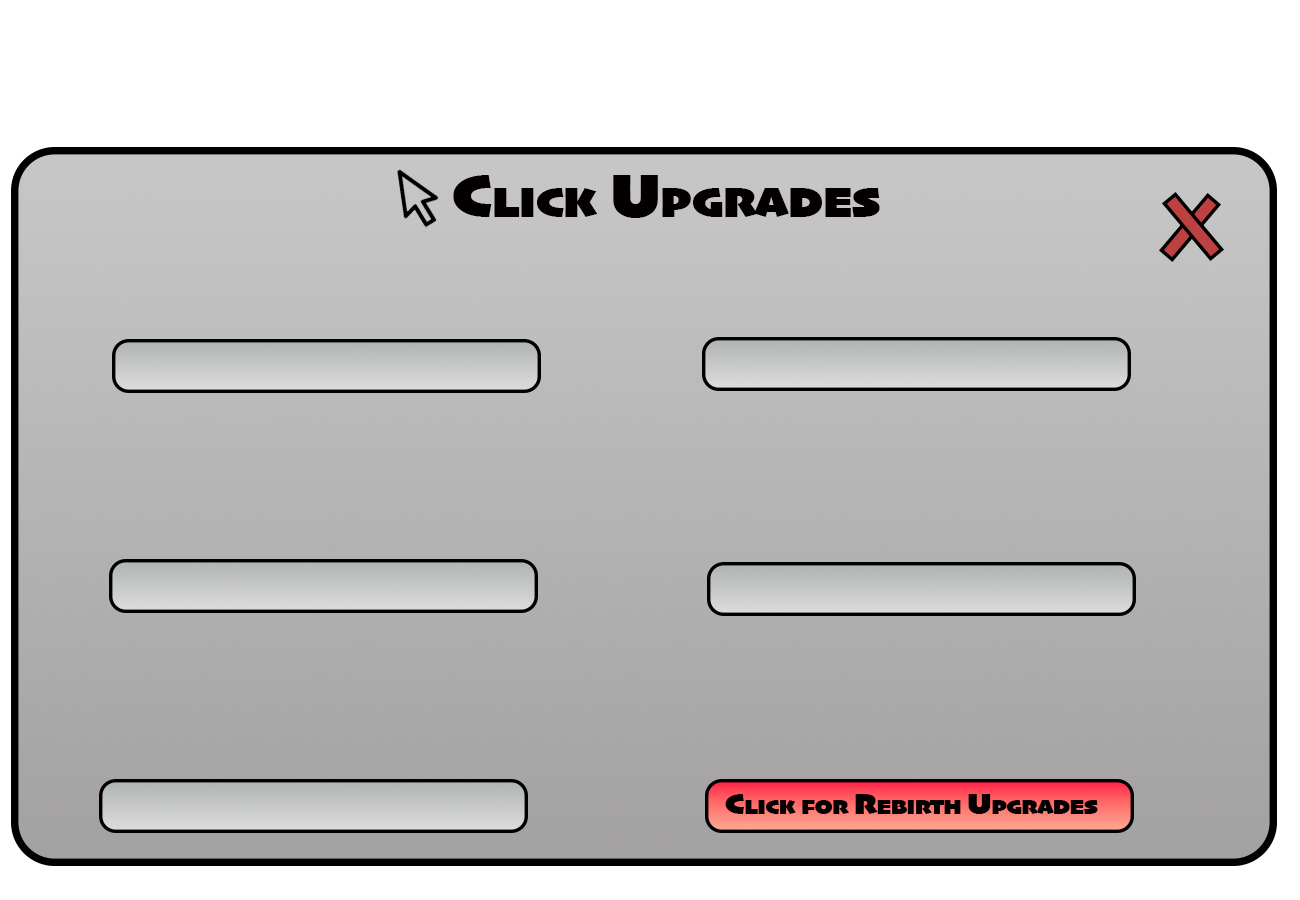
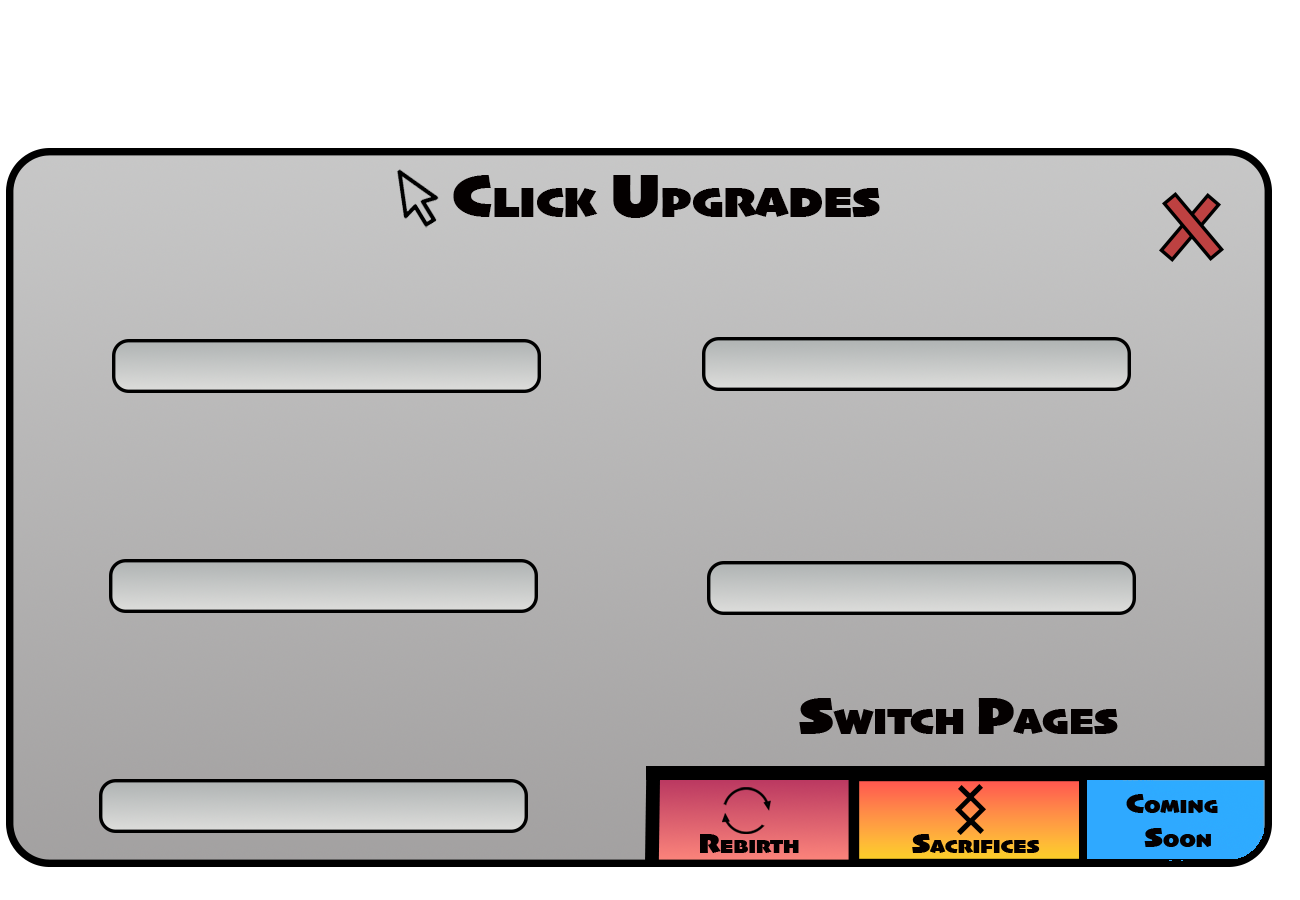
Modifyed Shop Menus

Changed region(s): [[0.0, 0.1556, 0.9846, 0.9644], [0.5538, 0.6222, 0.8615, 0.6844]]

diff --git a/README.md b/README.md
@@ -9,8 +9,6 @@ V3 So Far:
 - Tiers 11 - 12
 - Settings
 - Rework/Design Of The Shop Menu
-- Image Directory
-- An Updated Save System (For Easier version switching)
 - Bug Fixes 
 
 --------------
